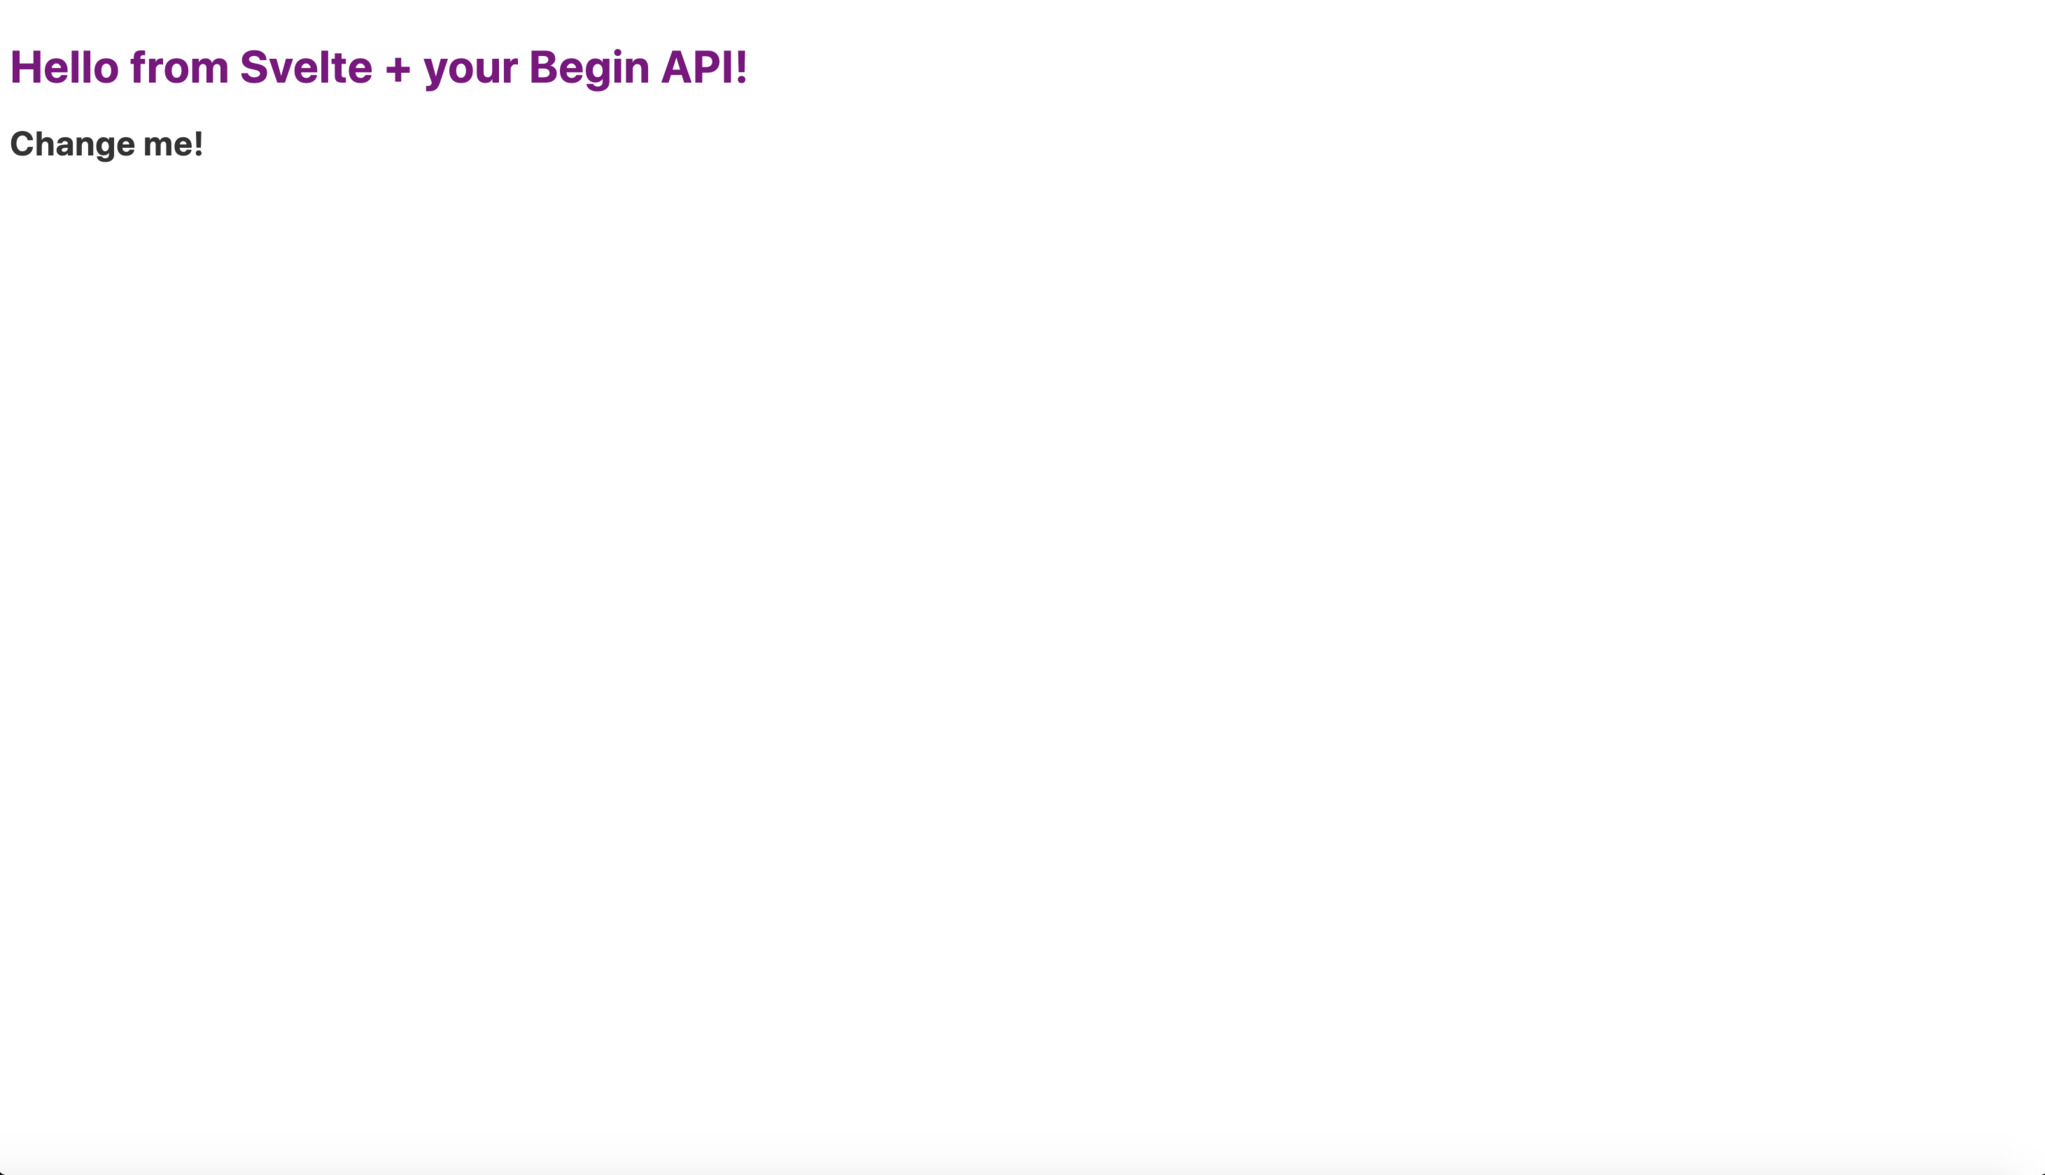
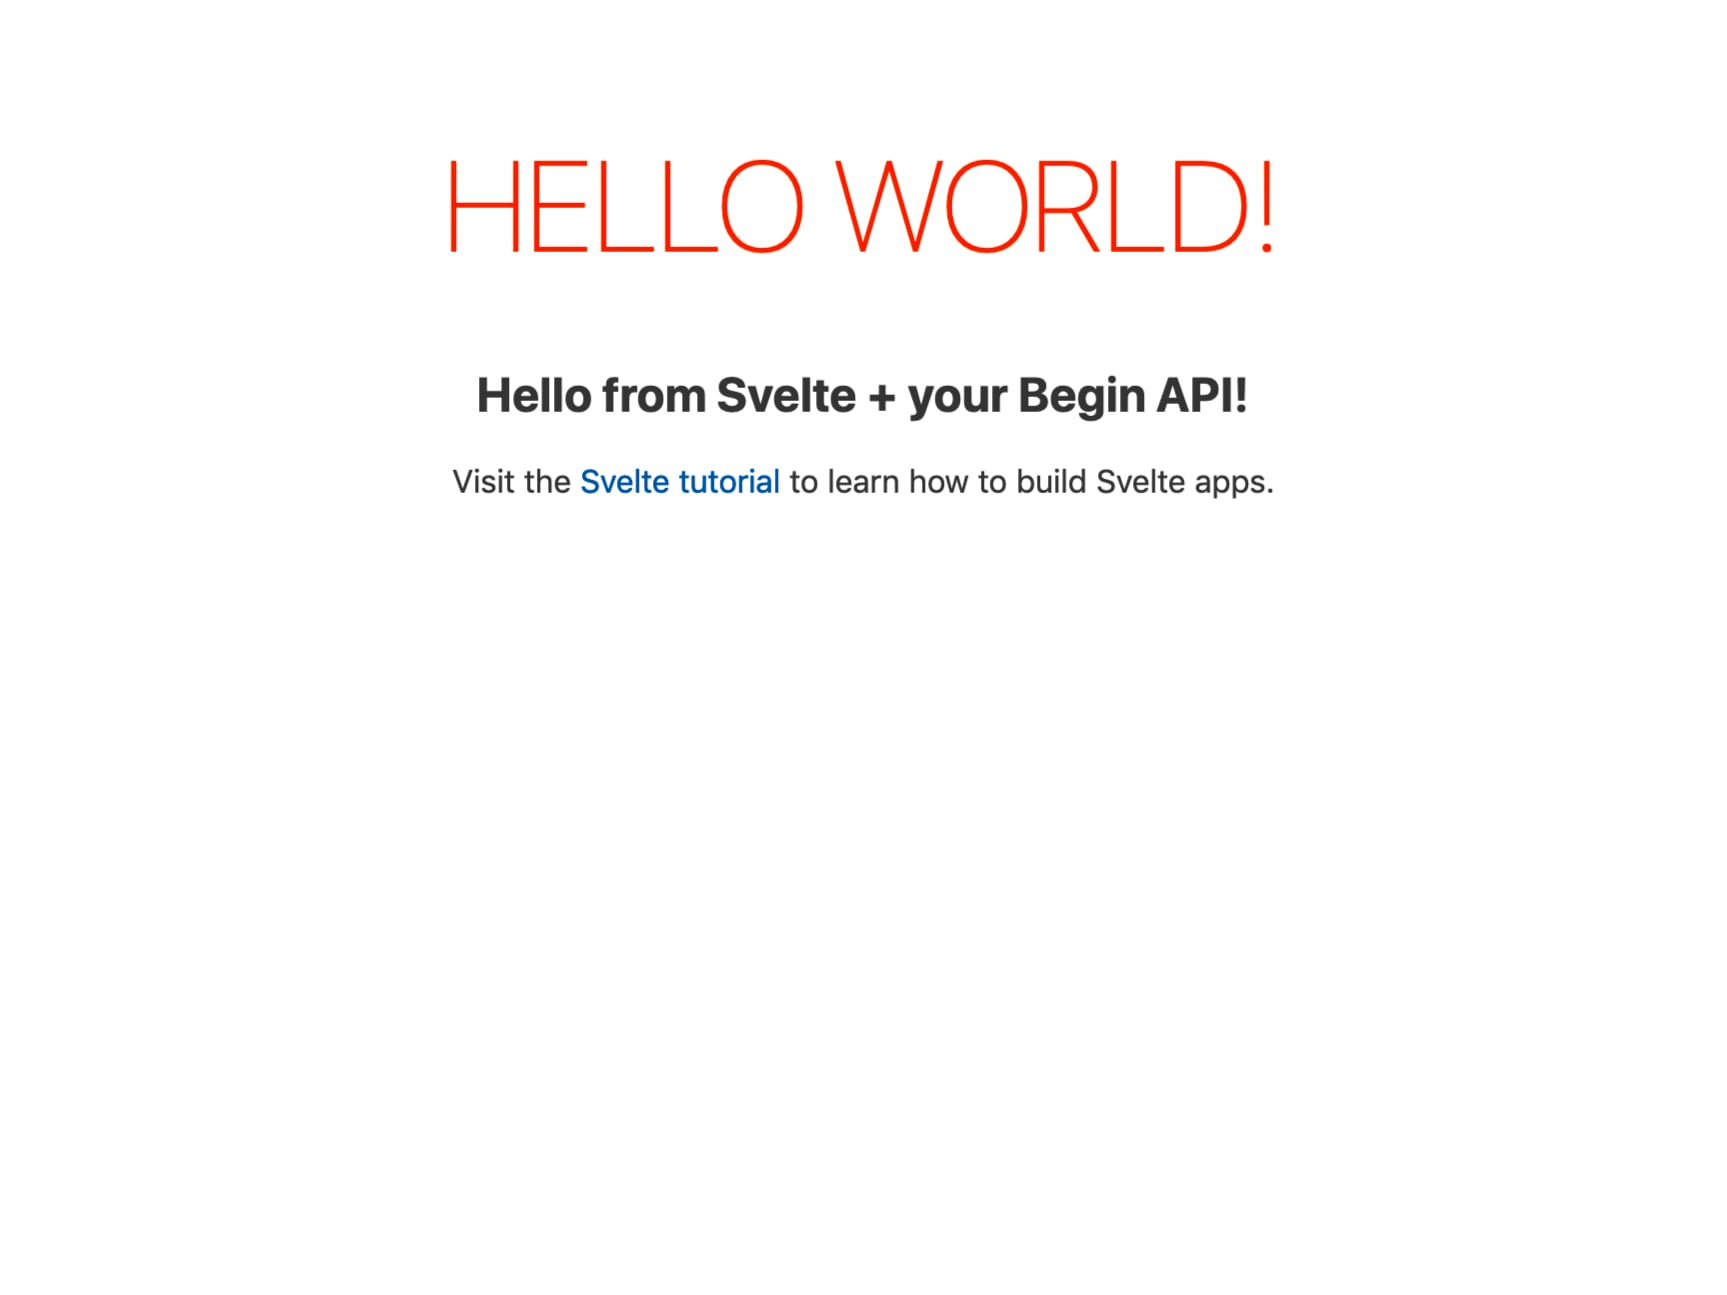
Updates svelte guide to reflect new svelte template.

diff --git a/src/shared/docs/en/guides/svelte.md b/src/shared/docs/en/guides/svelte.md
@@ -18,7 +18,7 @@ This tutorial also assumes some familiarity with such things as:
 - Git and version control
 - General software development using JavaScript
 
-You do not need to be an expert in any of these things in order to follow along and make a new personal website with Begin!
+You do not need to be an expert in any of these things in order to follow along though.
 
 **Let's get started!**
 
@@ -55,7 +55,7 @@ After creating your app, you'll be taken to its `Activity` stream. Welcome to th
 
 From the `Activity` view, you'll be able to watch your app build & deploy in real-time. Any time you push to `master`, you'll see a new build get kicked off in Begin.
 
-Each build undergoes a number of predefined build steps (learn more about [build steps here](https://docs.begin.com/en/getting-started/builds-deploys#configuring-build-steps)); these build steps may install your app's dependencies (`install`), test your code's syntax (`lint`), generate any files or assets needed to run your app (`build`), and/or run an automated test suite (`test`).
+Each build undergoes a number of predefined build steps (learn more about [build steps here](https://docs.begin.com/en/getting-started/builds-deploys#configuring-build-steps)); these build steps may install your app's dependencies (`install`), check your code's syntax for issues (`lint`), generate any files or assets needed to run your app (`build`), and/or run an automated test suite (`test`).
 
 If no build steps fail, then the build containing your latest commit to `master` is automatically deployed to your `staging` environment.
 
@@ -79,6 +79,7 @@ Look for this code, and try changing the color of the `h1` tag and the text of t
 // Customize your site by changing the color of the h1
 <script>
   import { onMount } from 'svelte'
+  export let name;
   export let message;
   onMount(async () => {
     let data = await (await fetch('/api')).json()
@@ -87,15 +88,34 @@ Look for this code, and try changing the color of the `h1` tag and the text of t
   })
 </script>
 
+<main>
+  <h1>Hello {name}!</h1>
+  <h2>{message}</h2>
+  <h3>Change me!</h3> // <-- Change text!
+  <p>Visit the <a href="https://svelte.dev/tutorial">Svelte tutorial</a> to learn how to build Svelte apps.</p>
+</main>
+
 <style>
+  main {
+    text-align: center;
+    padding: 1em;
+    max-width: 240px;
+    margin: 0 auto;
+  }
+
   h1 {
-    color: purple; // <-- Change color!
+    color: #ff3e00; // <-- change color!
+    text-transform: uppercase;
+    font-size: 4em;
+    font-weight: 100;
+  }
+
+  @media (min-width: 640px) {
+    main {
+      max-width: none;
+    }
   }
 </style>
-
-<h1>{message}</h1>
-<h2>Change me!</h2> // <--Change text!
-
 ```
 
 Click the **commit changes** button on GitHub, and head back to your `Activity` view to watch it build.
@@ -141,7 +161,7 @@ Now that your app is live on `staging` and running locally, let's take a quick l
 │   │       └── index.js
 │   ├── App.svelte
 │   └── main.mjs
-└── rollup.config.js  
+└── rollup.config.js
 ```
 Let's go over each of these directories and how you may use them:
 
@@ -155,7 +175,7 @@ Let's go over each of these directories and how you may use them:
 
 The `public` directory is where you'll add images and any other static assets or files you want to make publicly accessible in your app.
 
-Each time your app deploys, the contents of this folder will automatically be published to your app's static asset bucket (on [S3](https://aws.amazon.com/s3/)) as well as Begin's CDN.
+Each time your app deploys, the contents of this folder will automatically be published to your app's static asset bucket on [S3](https://aws.amazon.com/s3/) which is the CDN Begin uses.
 
 This is also where your component level CSS & JS are bundled. Your apps global CSS which affects the entirety of your apps styling can be found in this directory as well.
 
@@ -185,7 +205,7 @@ exports.handler = async function http (req) {
 
 ### `src/main.mjs`
 
-`/main.js` imports in your `./App.svelte` file which is your root app component. In this example we initialize your app to `document.body` and pass it a prop just to show you that props can be passed along to different components inside of your app.
+`/main.js` imports your `./App.svelte` file which is your root app component. In this example we initialize your app to `document.body` and pass it a prop just to show you that props can be passed along to different components inside of your app.
 
 ```js
 import App from './App.svelte'
@@ -194,6 +214,7 @@ let message = '...loading'
 const app = new App({
   target: document.body,
   props: {
+    name: 'world',
     message
   }
 })
@@ -204,30 +225,52 @@ export default app
 
 ### `src/App.svelte`
 
-This is the root of your app that displays your frontend. The script tag in this example is taking in props from `/main.js`. Right below the script tag we have the style tag for styling this particular components CSS. Lastly at the bottom we have a section for our HTML which can take in JS variables.
+This is what is referred to as a single file component that contains all of the code needed to display your frontend. The script tag contains JavaScript and in this example is taking in props from `/main.js`. Right below the script tag we have a section for our HTML which can render variables inside {brackets} from your script tag. Lastly at the bottom we have the style tag that contains all the CSS for this specific component.
 
 ```js
-// Javascript
+// JavaScript
 <script>
-  import { onMount } from "svelte";
+  import { onMount } from 'svelte'
+  export let name;
   export let message;
   onMount(async () => {
-    let data = await (await fetch("/api")).json();
-    message = data.msg;
-    console.log("MESSAGE: ", message);
-  });
+    let data = await (await fetch('/api')).json()
+    message = data.msg
+    console.log('MESSAGE: ', message)
+  })
 </script>
+
+// HTML
+<main>
+  <h1>Hello {name}!</h1>
+  <h2>{message}</h2>
+  <h3>Change me!</h3>
+  <p>Visit the <a href="https://svelte.dev/tutorial">Svelte tutorial</a> to learn how to build Svelte apps.</p>
+</main>
 
 // CSS
 <style>
+  main {
+    text-align: center;
+    padding: 1em;
+    max-width: 240px;
+    margin: 0 auto;
+  }
+
   h1 {
-    color: red;
+    color: #ff3e00;
+    text-transform: uppercase;
+    font-size: 4em;
+    font-weight: 100;
+  }
+
+  @media (min-width: 640px) {
+    main {
+      max-width: none;
+    }
   }
 </style>
 
-// HTML
-<h1>{message}</h1>
-<h2>Change me!</h2>
 ```
 
 > 💡 **Learn more!** Head here to dig deeper into [the project structure of Begin apps](/en/getting-started/project-structure/).
@@ -236,32 +279,53 @@ This is the root of your app that displays your frontend. The script tag in this
 
 ## Using API endpoints
 
-Extending your Svelte app with HTTP functions is why you're here right? Right. So let's go over how this is made possible. 
+Extending your Svelte app with HTTP functions is why you're here right? Right. So let's go over how this is made possible.
 
-Take a look at the code in between the script tag below. We're fetching data from `src/http/get-api/` and then loading that data in the variable named `message`. We're now able to pass this variable into our HTML as props so that it displays the data from our HTTP function. Pretty cool!
+Take a look at the code in between the script tag below. When the component renders initially into a page or "mounts", we are able to use what is called a lifecycle method called `onMount` which is provided by the Svelte framework. Inside this `onMount` handler we fetch data from `src/http/get-api/` and then set the variable named `message` with the returned data. We're now able to pass this variable into our HTML as props so that it displays a message from our HTTP function. Pretty cool!
 
 ```js
-// JS goes here
+// JavaScript
 <script>
-  import { onMount } from "svelte";
+  import { onMount } from 'svelte'
+  export let name;
   export let message;
   onMount(async () => {
-    let data = await (await fetch("/api")).json();
-    message = data.msg;
-    console.log("MESSAGE: ", message);
-  });
+    let data = await (await fetch('/api')).json()
+    message = data.msg
+    console.log('MESSAGE: ', message)
+  })
 </script>
 
-// CSS styling goes here
+// HTML
+<main>
+  <h1>Hello {name}!</h1>
+  <h2>{message}</h2>
+  <h3>Change me!</h3>
+  <p>Visit the <a href="https://svelte.dev/tutorial">Svelte tutorial</a> to learn how to build Svelte apps.</p>
+</main>
+
+// CSS
 <style>
+  main {
+    text-align: center;
+    padding: 1em;
+    max-width: 240px;
+    margin: 0 auto;
+  }
+
   h1 {
-    color: red;
+    color: #ff3e00;
+    text-transform: uppercase;
+    font-size: 4em;
+    font-weight: 100;
+  }
+
+  @media (min-width: 640px) {
+    main {
+      max-width: none;
+    }
   }
 </style>
-
-// HTML elements and components go here
-<h1>{message}</h1>
-<h2>Change me!</h2>
 ```
 
 
